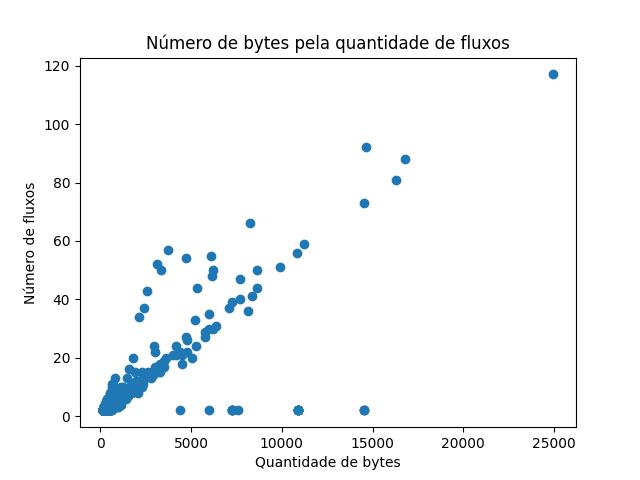
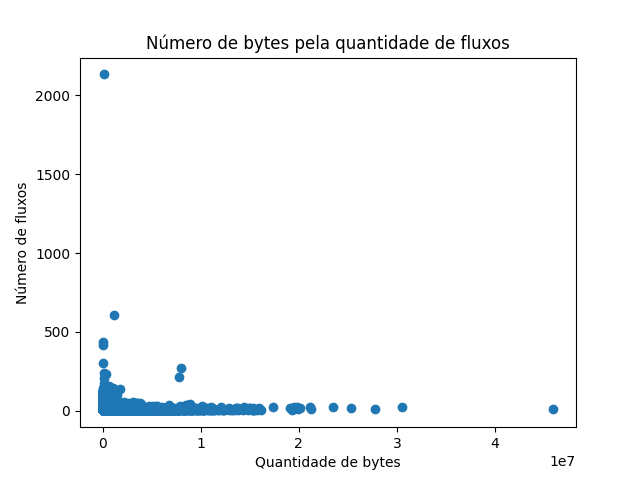
feat: mudando o arquivo

diff --git a/AvaliadorFluxo/FluxosAnalisadorSamePort.py b/AvaliadorFluxo/FluxosAnalisadorSamePort.py
@@ -4,7 +4,7 @@ import time
 import matplotlib.pyplot as plt
 
 PATH_TSHARK = "C:/Program Files/Wireshark/tshark.exe"
-PATH_PCAP = 'Datasets/Pcaps/Analisador1.pcap'
+PATH_PCAP = 'Datasets/Pcaps/equinix-nyc.dirA.20190117-130000.UTC.anon.pcap'
 ARQUIVO_FLUXOS = "AvaliadorFluxo/Saida/Fluxos.txt"
 ARQUIVO_FLUXOS_ORDENADOS = "AvaliadorFluxo/Saida/FluxosOrdenados.txt"
 ARQUIVO_SAIDA = "AvaliadorFluxo/Saida/Avaliacao.txt"
